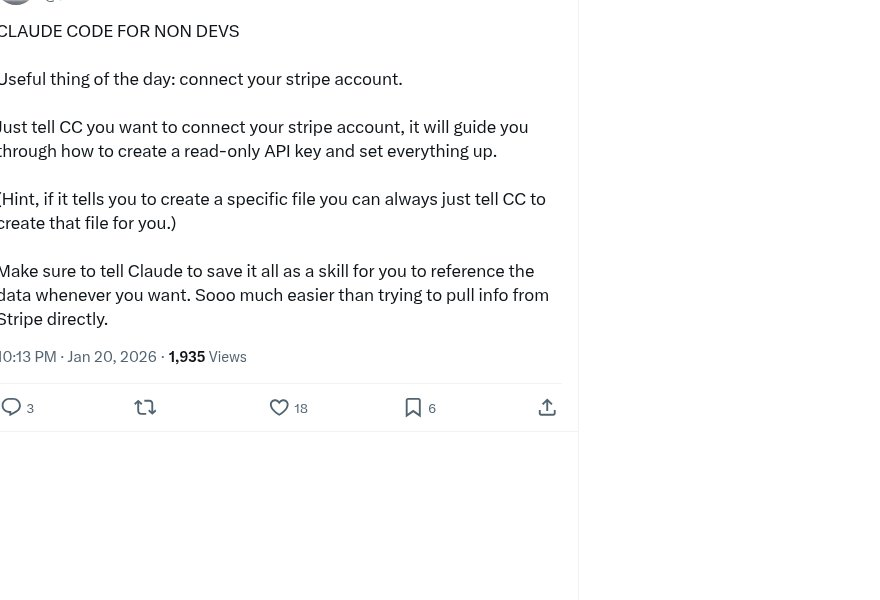
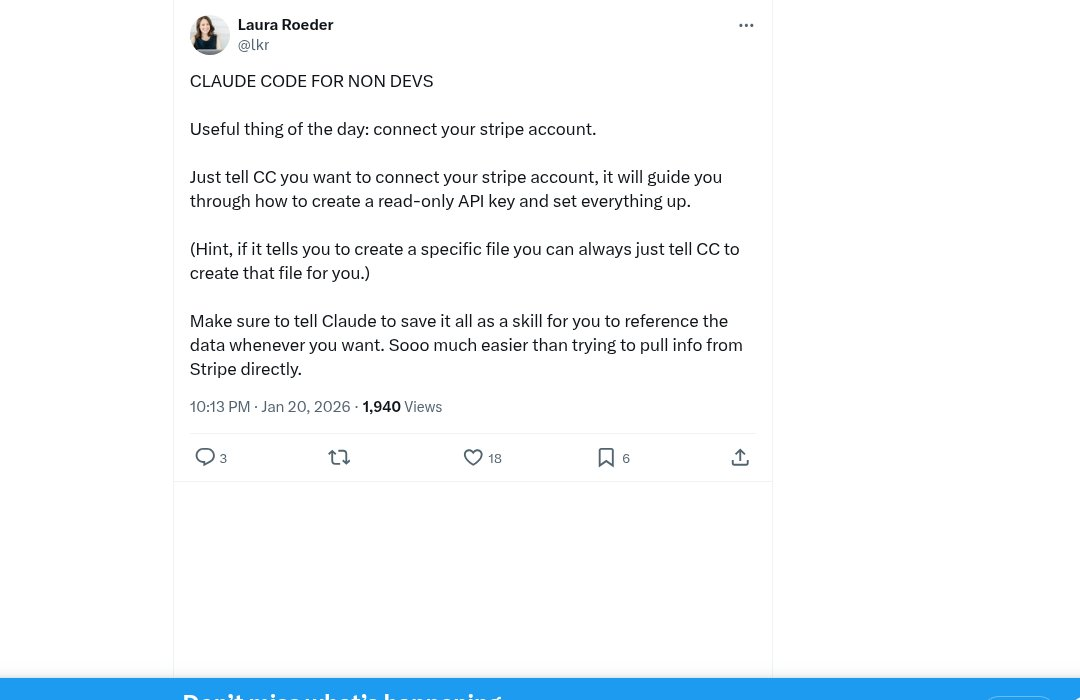
Adjust cropping coordinates for better content capture
- Loosen cropping parameters to capture more of the content area
- New coordinates: { x: 100, y: 50, width: 1080, height: 700 }
- This reduces over-cropping while still focusing on main content

diff --git a/scripts/capture-screenshot.js b/scripts/capture-screenshot.js
@@ -19,9 +19,9 @@ async function captureScreenshot(url, outputName = 'screenshot.png', options = {
 
   // Platform-specific presets to focus on relevant content
   const presets = {
-    twitter: { x: 200, y: 100, width: 880, height: 600 },  // Focus on tweet content, skip sidebars
-    x: { x: 200, y: 100, width: 880, height: 600 },       // Same as Twitter
-    linkedin: { x: 150, y: 80, width: 900, height: 650 }, // Focus on feed, skip navigation
+    twitter: { x: 100, y: 50, width: 1080, height: 700 },  // Focus on tweet content, minimize sidebars
+    x: { x: 100, y: 50, width: 1080, height: 700 },       // Same as Twitter
+    linkedin: { x: 100, y: 50, width: 1080, height: 700 }, // Focus on feed, minimize navigation
     github: { x: 0, y: 0, width: 1280, height: 800 },     // Full page for code repos
     default: defaultClip
   };
